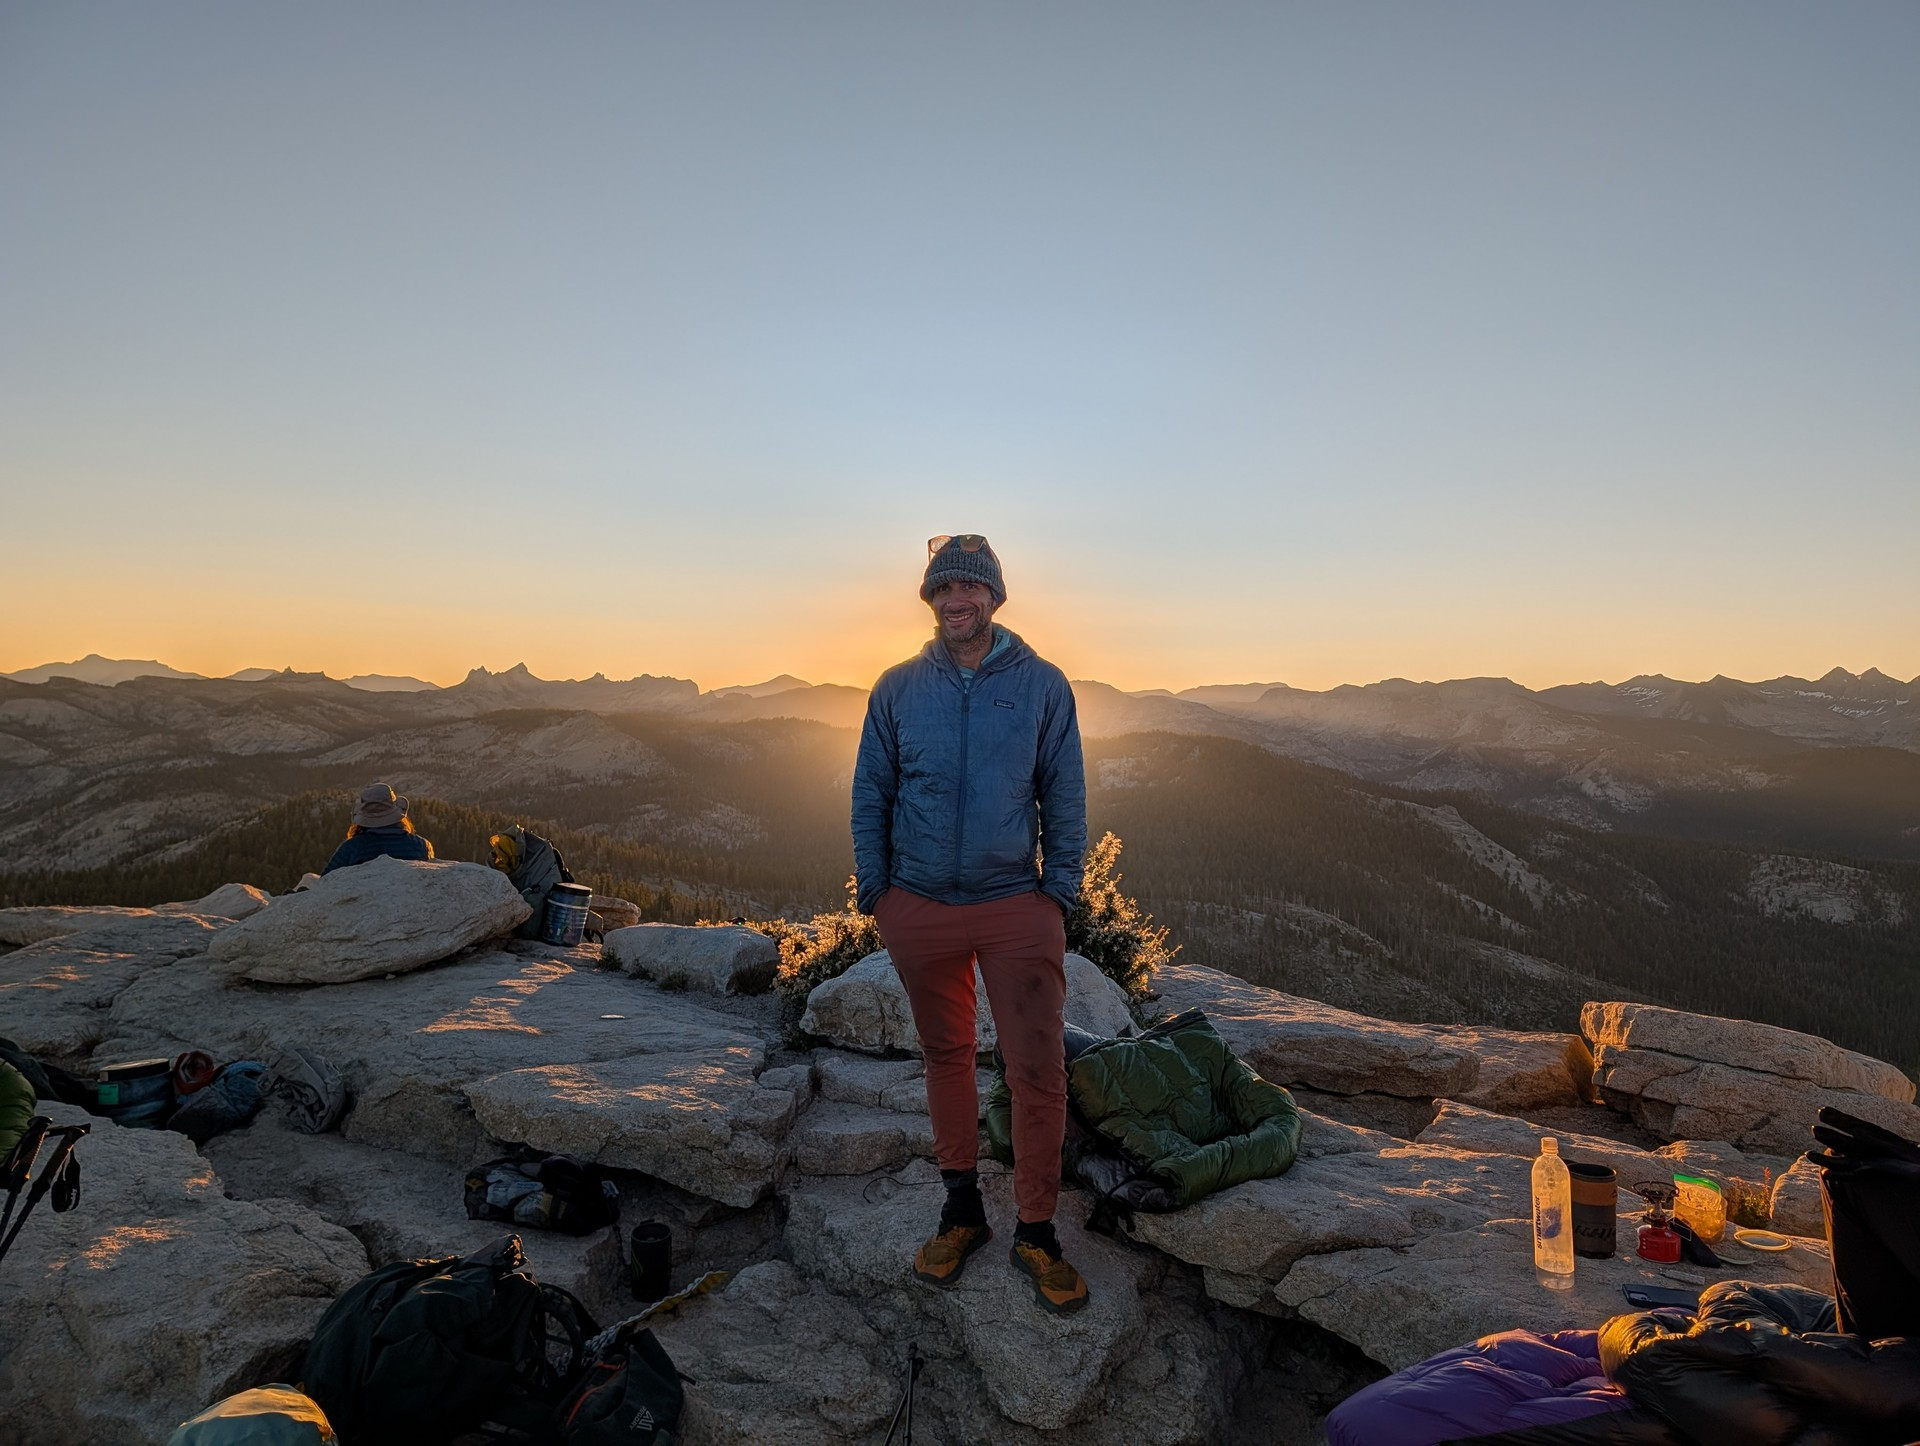
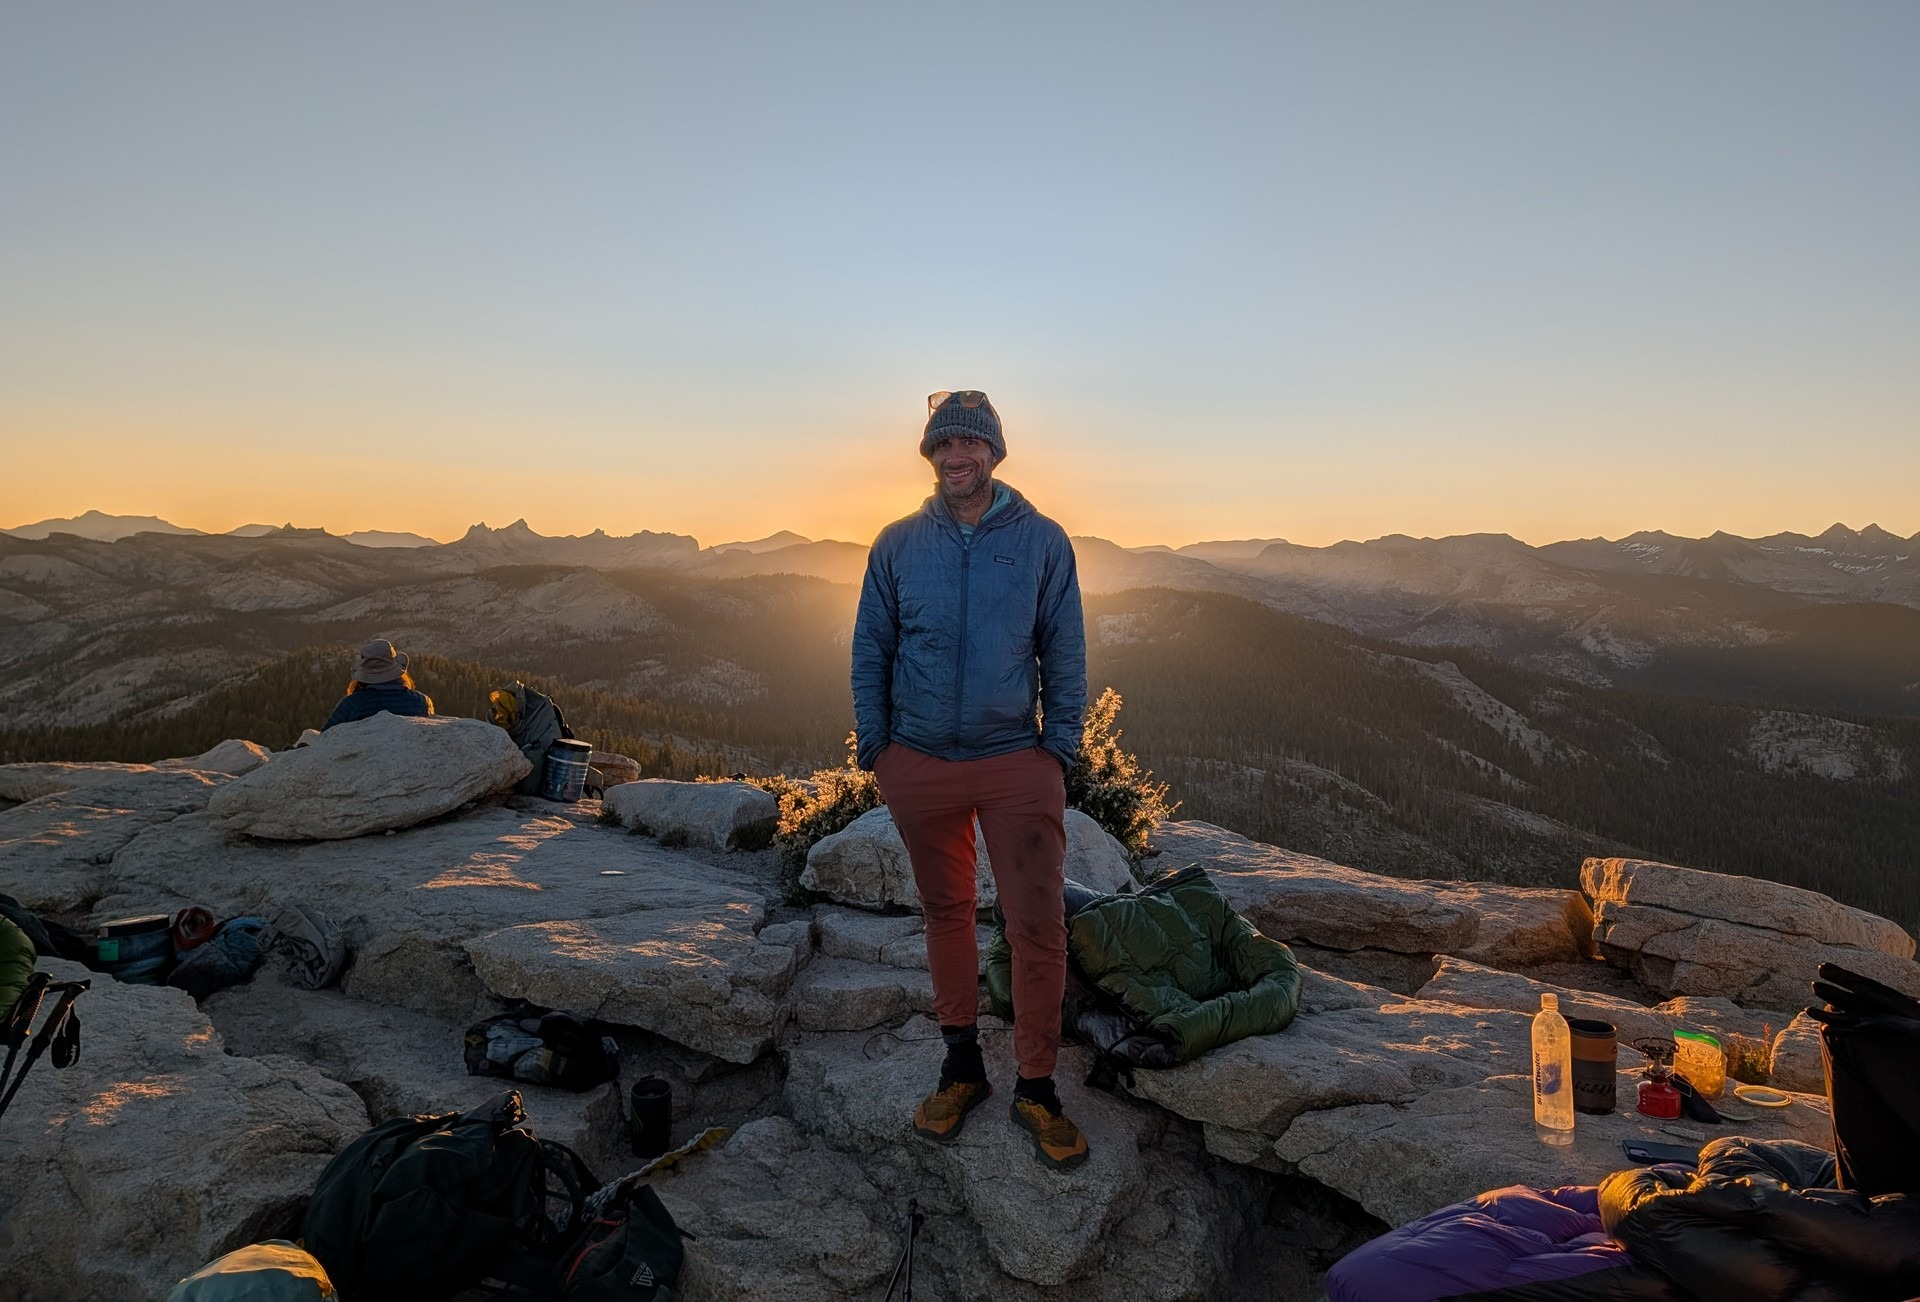
look and feel improvements

diff --git a/index.html b/index.html
@@ -59,7 +59,7 @@
 							<p id="text04">Coffee by day, chili crunch by night</p>
 						</div>
 					</div>
-					<p id="text07small" style="text-align:center; margin-top:1.25rem;">Born in the Bay, relocated to LA. Foodie father of twins.<br/> Sunrise trail runner and tinkerer.<br/> Browse my <a href="#recipes">fav recipes</a>, <a href="#projects">side projects</a>, and <a href="#writing">essays</a> on the outdoors+</p>
+					<p id="text07small" style="text-align:center; margin-top:1.25rem;">Born in the Bay, relocated to LA. <a href="https://john.marsland.org/#recipes">Foodie</a> father of <a href="https://john.marsland.org/#two-under-two">twins</a>.<br/> Sunrise <a href="https://john.marsland.org/#morning-addiction">trail runner</a> and <a href="https://john.marsland.org/#projects">data tinkerer</a>.</p>
 				</section>
 
 				<section id="recipes-section">
@@ -73,16 +73,22 @@
 					<div class="total-recipe-container" >
 
 						<div id=recipes-bestof style="">				
-								<h3 id="bakes_header">Bakes &#129366;</h3>
-								<p class="text11">Bread + Butter is on my execution meal</p>
+								<div class="recipe-section-band">
+									<h3 id="bakes_header">Bakes &#129366;</h3>
+									<p class="text11">Bread + Butter is on my execution meal</p>
+								</div>
 								<div id="bakes" class="grid-container"></div>
 
-								<h3 id="meals_bestof_header">Meals &#x1f37d;</h3>
-								<p class="text11">Mains catered especially for lovers of garlic, butter, and gluttony</p>
+								<div class="recipe-section-band">
+									<h3 id="meals_bestof_header">Meals &#x1f37d;</h3>
+									<p class="text11">Mains catered especially for lovers of garlic, butter, and gluttony</p>
+								</div>
 								<div id="meals_bestof" class="grid-container"></div>
 
-								<h3 id="drinks_cocktails_header">Drinks 🍸</h3>
-								<p class="text11">Bright, brash, bitter, and balanced cocktails</p>
+								<div class="recipe-section-band">
+									<h3 id="drinks_cocktails_header">Drinks 🍸</h3>
+									<p class="text11">Bright, brash, bitter, and balanced cocktails</p>
+								</div>
 								<div id="drinks_cocktails" class="grid-container"></div>
 
 								<!-- <h3 id="drinks_caffeine_header">Caffeine ☕</h3>

diff --git a/static/css/style.css b/static/css/style.css
@@ -357,6 +357,9 @@ hr:before {
 	background-color: #CCCCCC;
 	height: 1px;
 }
+#divider01 {
+	display: none;
+}
 #divider02 {
 	height: 0.5rem;
 	line-height: 0.5rem;
@@ -922,4 +925,33 @@ body {
 
 .article-text {
 	text-align:left !important;
+}
+
+.recipe-section-band {
+    margin: 52px 0 16px;
+    padding: 0;
+}
+
+.recipe-section-band::before {
+    content: '';
+    display: block;
+    height: 1px;
+    background: linear-gradient(to right, transparent, #ccc 30%, #ccc 70%, transparent);
+    margin-bottom: 24px;
+}
+
+@media (max-width: 767px) {
+    #text07small {
+        font-size: 95% !important;
+    }
+}
+
+@media (min-width: 768px) {
+    .thumb {
+        width: 150px;
+        height: 120px;
+    }
+    .grid-container {
+        grid-template-columns: repeat(4, 1fr);
+    }
 }
